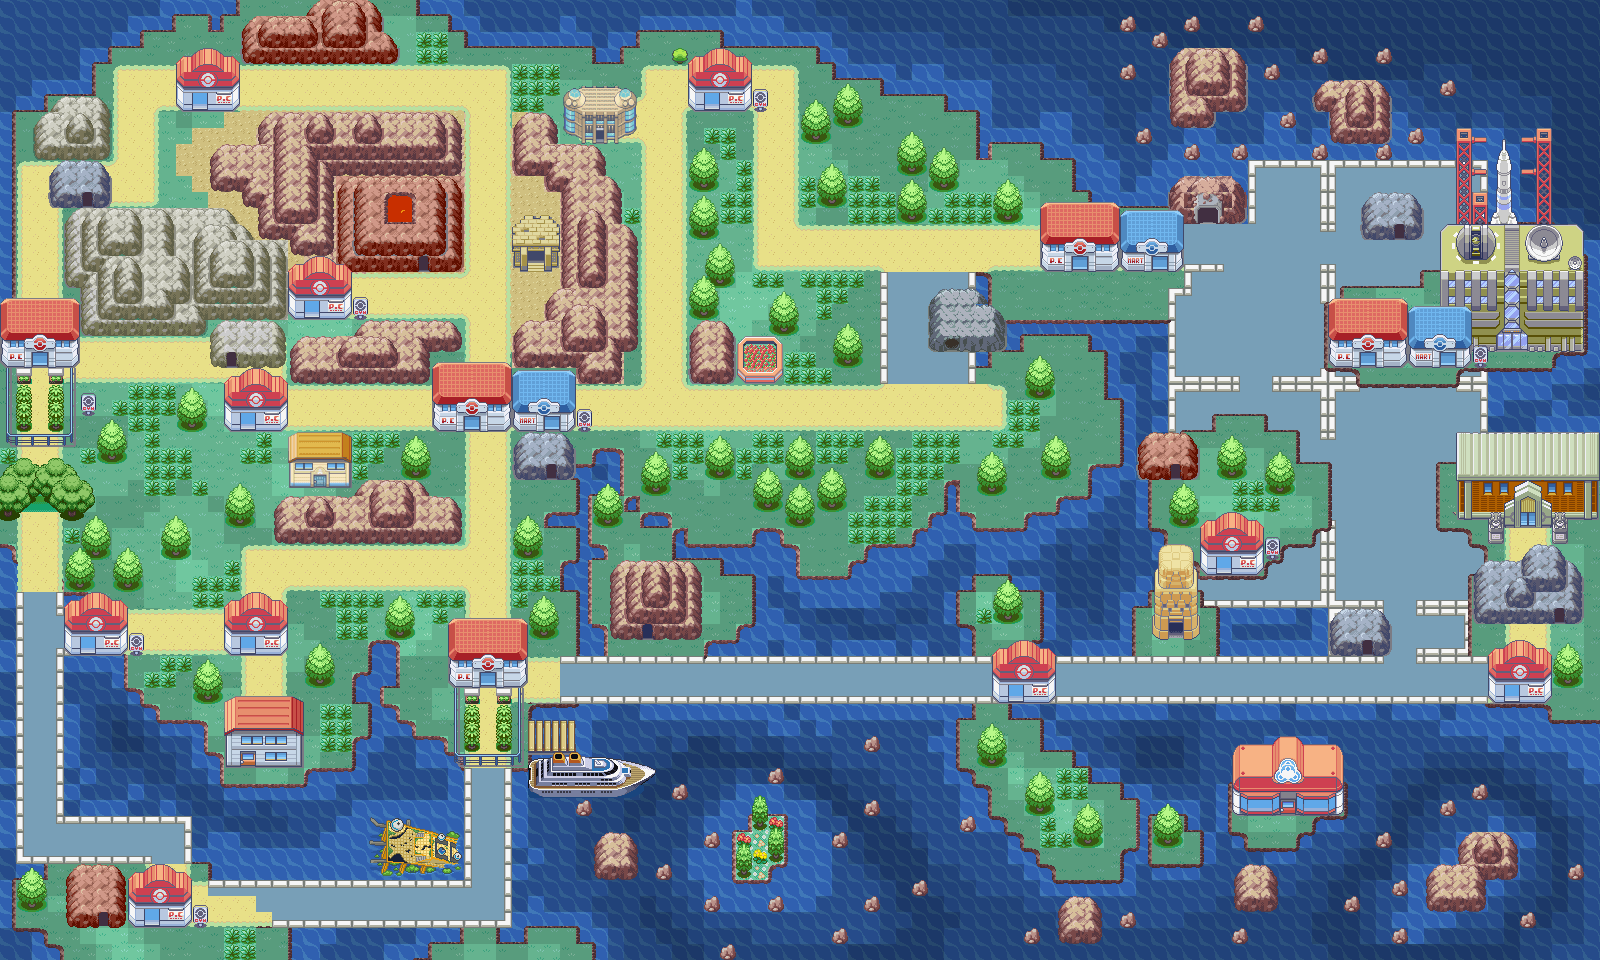
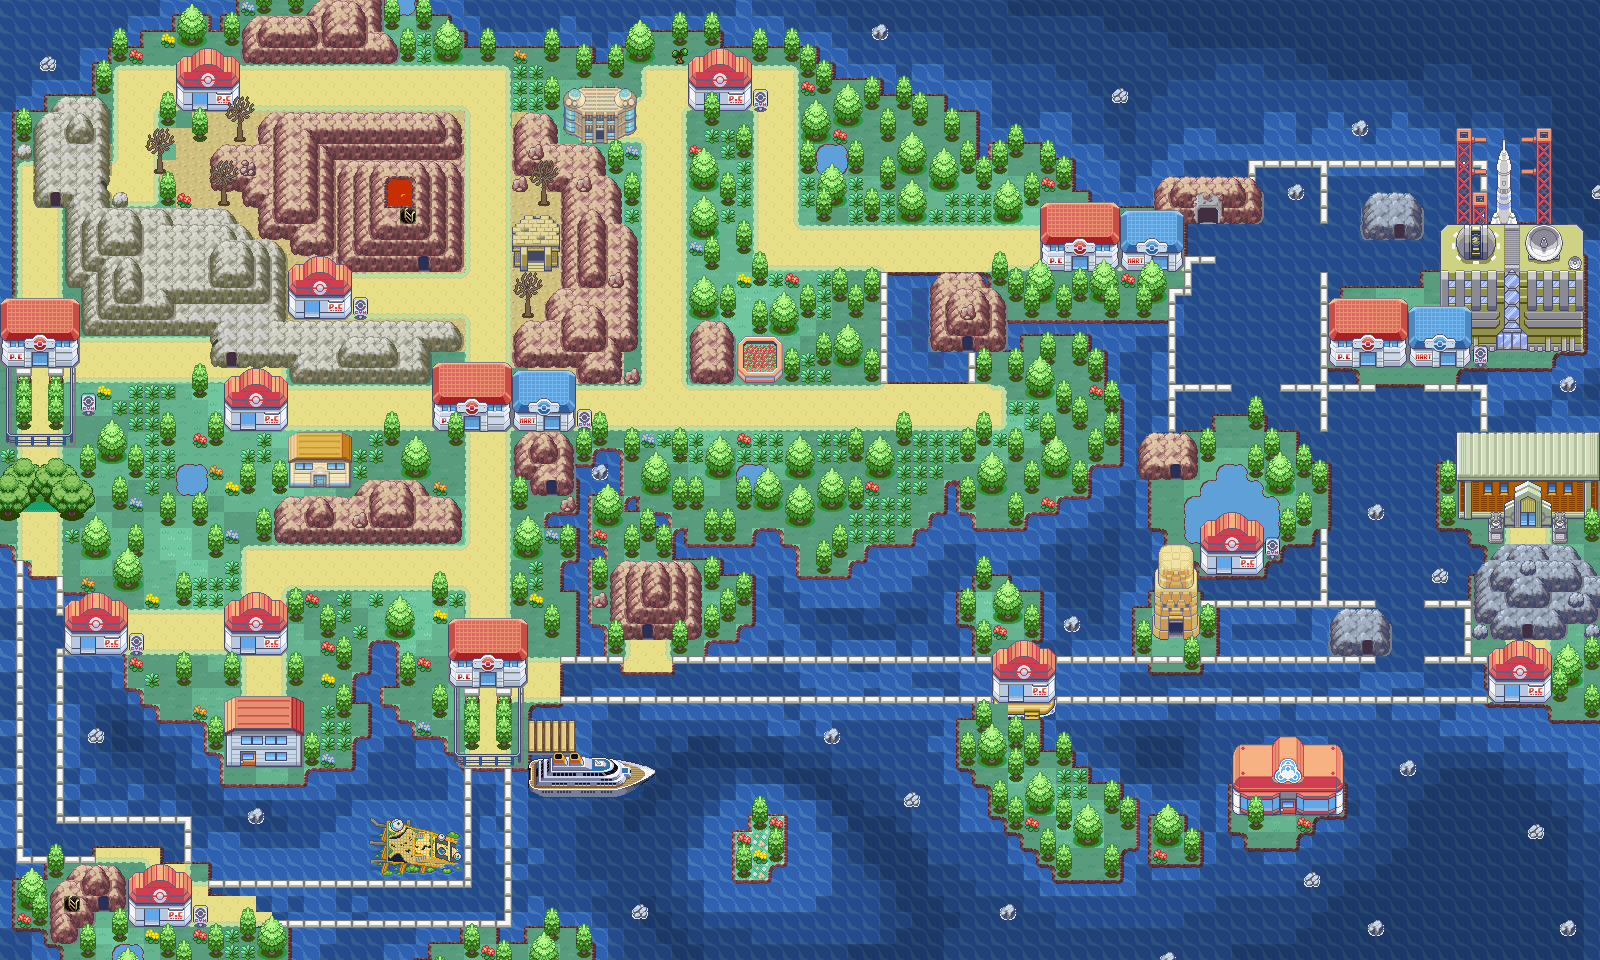
change(Map): New map for hoenn (#4865)
I revamped the hoenn map since it's like really old and plain so i added more detail to it making it more lively

diff --git a/src/components/HoennSVG.html b/src/components/HoennSVG.html
@@ -153,7 +153,7 @@
     <!--Route 115 extension-->
     <%- include('templates/mapRoute',
         { route: 115, region: 2
-        , width: 2, height: 3
+        , width: 1, height: 3
         , x: 1, y: 10
         , noText: true
         })
@@ -458,6 +458,14 @@
         , x: 33, y: 41
         })
     %>
+    <%- include('templates/mapRoute',
+        { route: 134, region: 2
+        , width: 3, height: 1
+        , x: 39, y: 40
+        , isExtension: true
+        , noText: true
+        })
+    %>
 
     <!-- ----- -->
     <!-- TOWNS -->
@@ -534,8 +542,8 @@
     <!--Mt. Chimney-->
     <%- include('templates/mapTown',
         { name: "Mt. Chimney"
-        , x: 21, y: 11
-        , width: 8, height: 5
+        , x: 21, y: 10
+        , width: 8, height: 6
         })
     %>
     <!--Mt. Chimney extension-->
@@ -726,15 +734,36 @@
     <%- include('templates/mapDungeon',
         { name: "Granite Cave"
         , x: 4, y: 54
-        , width: 4, height: 4
+        , width: 4, height: 3
+        })
+    %>
+    <%- include('templates/mapDungeon',
+        { name: "Granite Cave"
+        , x: 3, y: 55
+        , width: 1, height: 4
+        , isExtension: true
+        })
+    %>
+    <%- include('templates/mapDungeon',
+        { name: "Granite Cave"
+        , x: 4, y: 57
+        , width: 2, height: 1
+        , isExtension: true
+        })
+    %>
+    <%- include('templates/mapDungeon',
+        { name: "Granite Cave"
+        , x: 4, y: 58
+        , width: 1, height: 1
+        , isExtension: true
         })
     %>
 
     <!--Fiery Path-->
     <%- include('templates/mapDungeon',
         { name: "Fiery Path"
-        , x: 21, y: 11
-        , width: 8, height: 5
+        , x: 21, y: 10
+        , width: 8, height: 6
         , moveToTown: "Mt. Chimney"
         , invisible: true
         })
@@ -743,8 +772,8 @@
     <!--Mt. Chimney Crater-->
     <%- include('templates/mapDungeon',
         { name: "Mt. Chimney Crater"
-        , x: 21, y: 11
-        , width: 8, height: 5
+        , x: 21, y: 10
+        , width: 8, height: 6
         , moveToTown: "Mt. Chimney"
         , invisible: true
         })
@@ -753,8 +782,8 @@
     <!--Jagged Pass-->
     <%- include('templates/mapDungeon',
         { name: "Jagged Pass"
-        , x: 21, y: 11
-        , width: 8, height: 5
+        , x: 21, y: 10
+        , width: 8, height: 6
         , moveToTown: "Mt. Chimney"
         , invisible: true
         })
@@ -763,8 +792,8 @@
     <!--Magma Hideout-->
     <%- include('templates/mapDungeon',
         { name: "Magma Hideout"
-        , x: 21, y: 11
-        , width: 8, height: 5
+        , x: 21, y: 10
+        , width: 8, height: 6
         , moveToTown: "Mt. Chimney"
         , invisible: true
         })
@@ -776,11 +805,26 @@
         , x: 32, y: 27
         })
     %>
+    <%- include('templates/mapDungeon',
+        { name: "New Mauville"
+        , x: 33, y: 30
+        , width: 3, height: 1
+        , isExtension: true
+        })
+    %>
 
     <!--Meteor Falls-->
     <%- include('templates/mapDungeon',
         { name: "Meteor Falls"
-        , x: 3, y: 10
+        , x: 2, y: 7
+        , width: 5, height: 6
+        })
+    %>
+    <%- include('templates/mapDungeon',
+        { name: "Meteor Falls"
+        , x: 3, y: 6
+        , width: 4, height: 1
+        , isExtension: true
         })
     %>
 
@@ -795,15 +839,15 @@
     <!--Mt. Pyre-->
     <%- include('templates/mapDungeon',
         { name: "Mt. Pyre"
-        , x: 58, y: 18
-        , width: 4, height: 4
+        , x: 58, y: 17
+        , width: 4, height: 5
         })
     %>
     <!--Mt. Pyre extension-->
     <%- include('templates/mapDungeon',
         { name: "Mt. Pyre"
-        , x: 62, y: 19
-        , width: 1, height: 3
+        , x: 62, y: 18
+        , width: 1, height: 4
         , isExtension: true
         })
     %>
@@ -817,8 +861,8 @@
     <!--Aqua Hideout extension-->
     <%- include('templates/mapDungeon',
         { name: "Aqua Hideout"
-        , x: 73, y: 11
-        , width: 1, height: 2
+        , x: 72, y: 11
+        , width: 2, height: 2
         , isExtension: true
         })
     %>
@@ -856,14 +900,21 @@
     <%- include('templates/mapDungeon',
         { name: "Victory Road Hoenn"
         , x: 92, y: 35
-        , width: 7, height: 4
+        , width: 8, height: 4
         })
     %>
     <!--Hoenn Victory Road extension-->
     <%- include('templates/mapDungeon',
         { name: "Victory Road Hoenn"
-        , x: 95, y: 34
-        , width: 3, height: 1
+        , x: 93, y: 34
+        , width: 6, height: 1
+        , isExtension: true
+        })
+    %>
+    <%- include('templates/mapDungeon',
+        { name: "Victory Road Hoenn"
+        , x: 92, y: 39
+        , width: 6, height: 1
         , isExtension: true
         })
     %>
